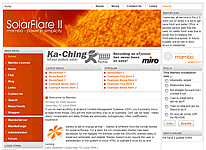
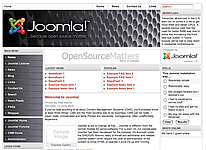
modified with Joomla! branding

diff --git a/development/branches/1.0/templates/rhuk_solarflare_ii/css/template_css.css b/development/branches/1.0/templates/rhuk_solarflare_ii/css/template_css.css
@@ -1,5 +1,13 @@
 /* CSS Document */
 
+html {
+	height: 100%;
+}
+
+body {
+	height: 100%;
+	margin-bottom: 1px;
+}
 
 .clr {
 	clear: both;
@@ -62,7 +70,7 @@ ul#mainlevel-nav li
 	float: right;
 	margin: 0;
 	width: auto !important;
-  width: 15%;
+    width: 15%;
 	font-size: 11px;
 	line-height: 21px;
 	white-space: nowrap;
@@ -84,8 +92,8 @@ ul#mainlevel-nav li a
 
 	ul#mainlevel-nav li a:hover
 {
-	color: #ffcc00;
-	background: #D84203;
+	color: #fff;
+	background: #c64934;
 }
 
 
@@ -112,7 +120,7 @@ ul#mainlevel-nav li a
 	padding: 3px 3px 3px 5px;
 	font-family: arial, helvetica, sans-serif;
 	font-size: 11px;
-	color: #ff6600;
+	color: #c64934;
 }
 
 #header_outer {
@@ -237,12 +245,12 @@ table td.body_outer {
 
 
 #active_menu {
-	color:#FFCC00;
+	color:#fff;
 	font-weight: bold;
 }
 
 a#active_menu:hover {
-	color: #E15704;
+	color: #fff;
 }
 
 .maintitle {
@@ -328,6 +336,7 @@ body {
 	height: 100%;
 	padding: 0px;
 	font-family: Arial, Helvetica, Sans Serif;
+	line-height: 120%;
 	font-size: 11px;
 	color: #333333;
 	background: #ffffff;
@@ -335,12 +344,12 @@ body {
 
 /* Joomla core stuff */
 a:link, a:visited {
-	color: #ff6600; text-decoration: none;
+	color: #c64934; text-decoration: none;
 	font-weight: bold;
 }
 
 a:hover {
-	color: #C43C03;	text-decoration: none;
+	color: #900;	text-decoration: none;
 	font-weight: bold;
 }
 
@@ -380,7 +389,7 @@ table.contentpane td.componentheading {
 }
 
 .button {
-  color: #ff6600;
+  color: #c64934;
   font-family: Arial, Hevlvetica, sans-serif;
   text-align: center;
   font-size: 11px;
@@ -421,11 +430,10 @@ table.contentpane td.componentheading {
 
 .contentheading {
 	height: 30px;
-	background: url(../images/contenthead.png) top left repeat-x;
-	color: #666666;
-	text-indent: 15px;
+
+	color: #c64934;
 	font-weight: bold;
-	font-size: 11px;
+	font-size: 14px;
 	white-space: nowrap;
 }
 
@@ -498,7 +506,6 @@ table.pollstableborder td {
 .small {
 	color: #999999;
 	font-size: 11px;
-	font-weight: bold;
 }
 
 .createdate {
@@ -506,7 +513,6 @@ table.pollstableborder td {
 	padding-bottom: 10px;
 	color: #999999;
 	font-size: 11px;
-	font-weight: bold;
 }
 
 .modifydate {
@@ -514,7 +520,6 @@ table.pollstableborder td {
 	padding-top: 10px;
 	color: #999999;
 	font-size: 11px;
-	font-weight: bold;
 }
 
 table.contenttoc {
@@ -546,7 +551,7 @@ a.mainlevel:link, a.mainlevel:visited {
 	vertical-align: middle;
 	font-size: 11px;
 	font-weight: bold;
-	color: #ffffff;
+	color: #ccc;
 	text-align: left;
 	padding-top: 5px;
 	padding-left: 18px;
@@ -559,7 +564,7 @@ a.mainlevel:link, a.mainlevel:visited {
 a.mainlevel:hover {
 	background-position: 0px -25px;
 	text-decoration: none;
-	color: #333333;
+	color: #fff;
 }
 
 a.sublevel:link, a.sublevel:visited {
@@ -567,12 +572,12 @@ a.sublevel:link, a.sublevel:visited {
 	vertical-align: middle;
 	font-size: 11px;
 	font-weight: bold;
-	color: #ff6600;
+	color: #c64934;
 	text-align: left;
 }
 
 a.sublevel:hover {
-	color: #C43C03;
+	color: #900;
 	text-decoration: none;
 }
 .highlight {
